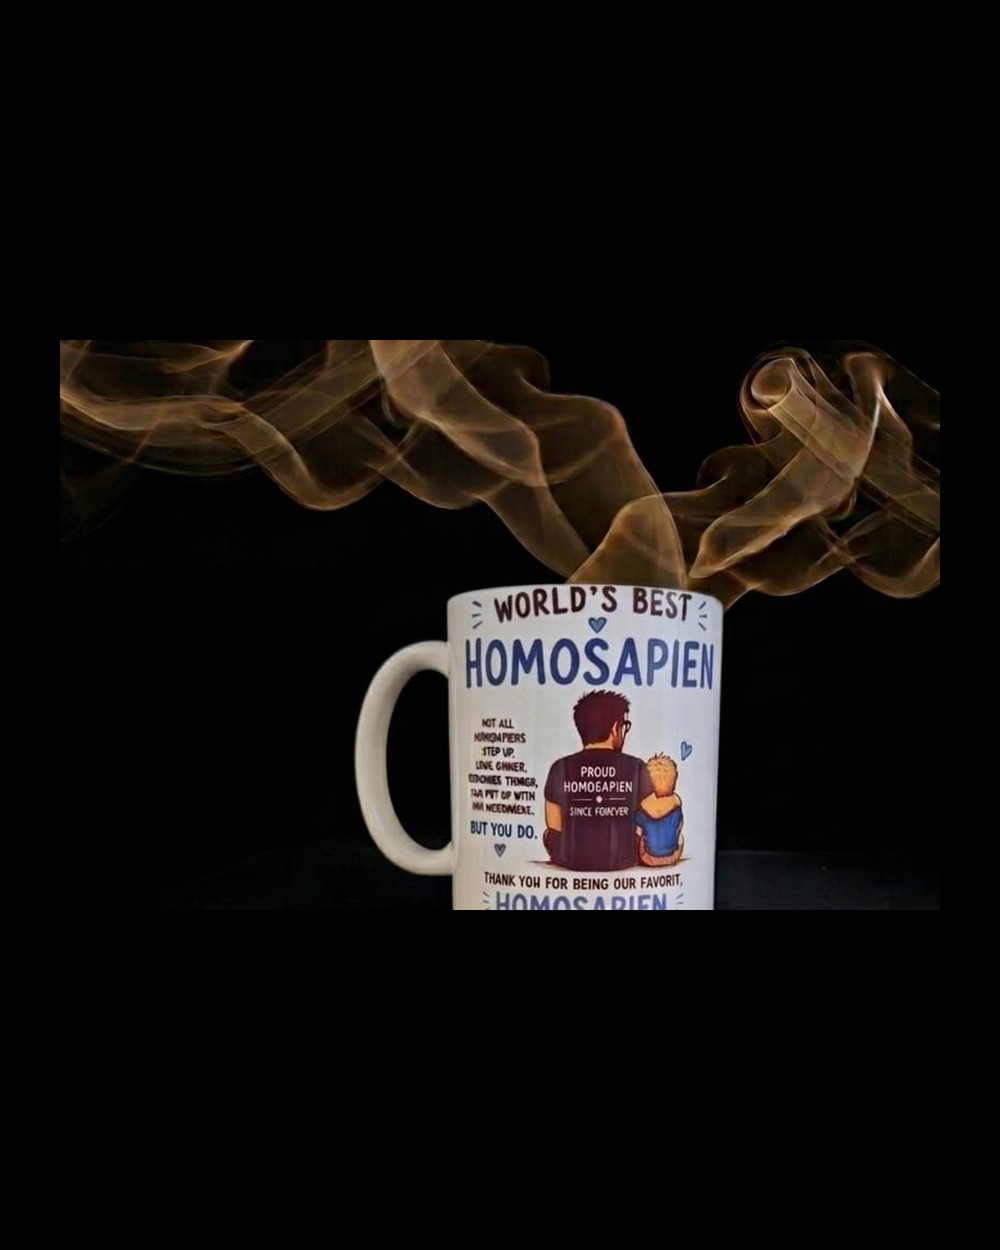
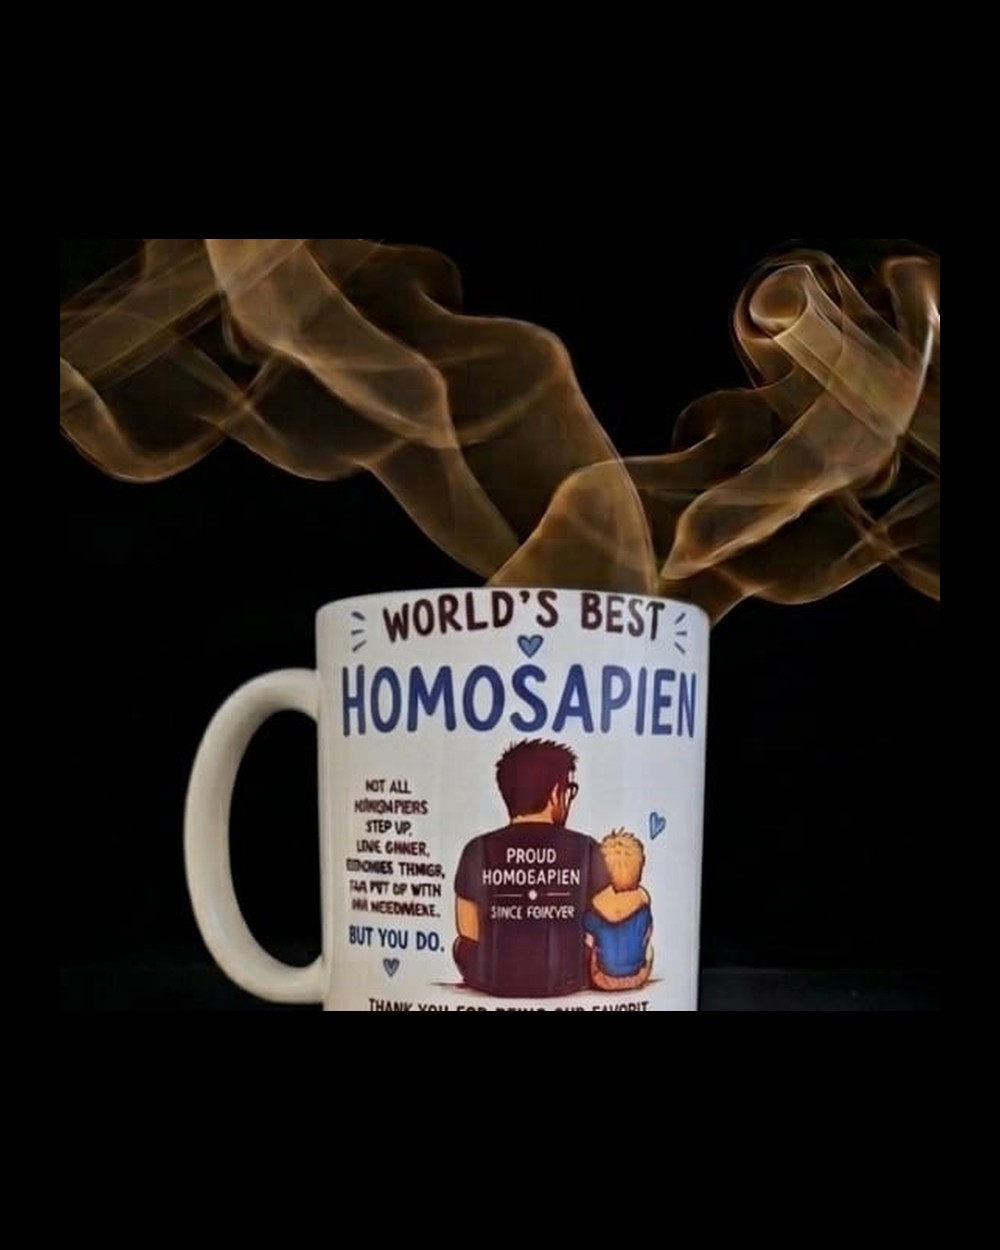
Tighten Homosapien crop to fill frame without cutting design
Center on the full mug (handle + Father's Day text) while trimming
side smoke and bottom branding from the WA source frame.

Changed region(s): [[0.062, 0.1872, 0.961, 0.8112]]

diff --git a/scripts/crop-incoming-products.py b/scripts/crop-incoming-products.py
@@ -114,7 +114,7 @@ JOBS = [
     {
         "source": "homosapien-mug-source.jpg",
         "dest": ROOT / "coffee-mugs" / "homosapien-mug.jpg",
-        "crop": lambda image: crop_runs(image, y_max=0.58, min_run=80, x_min=0.12, x_max=0.88, pad=20),
+        "crop": lambda image: crop_runs(image, y_max=0.55, min_run=80, x_min=0.28, x_max=0.72, pad=20),
     },
     {
         "source": "ac-fitness-bottle-source.jpg",
